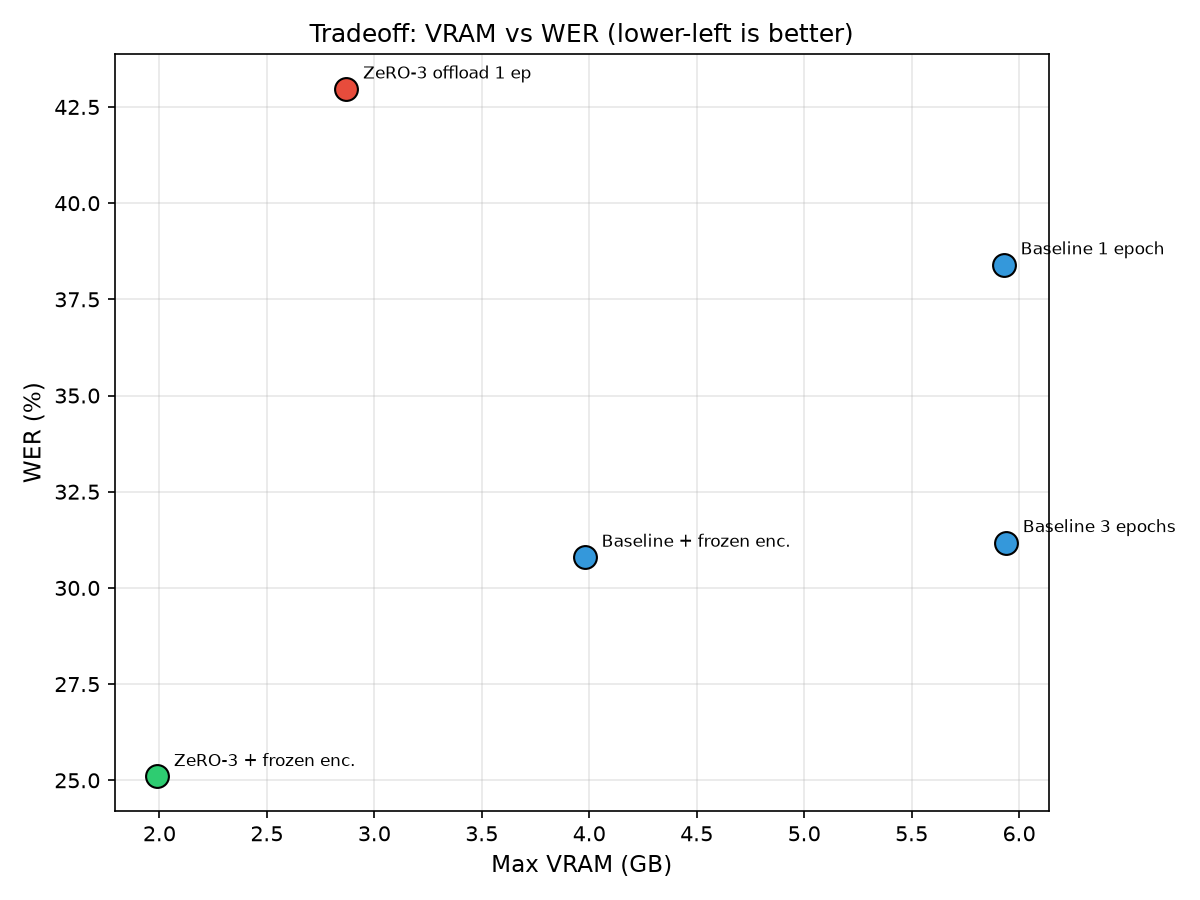
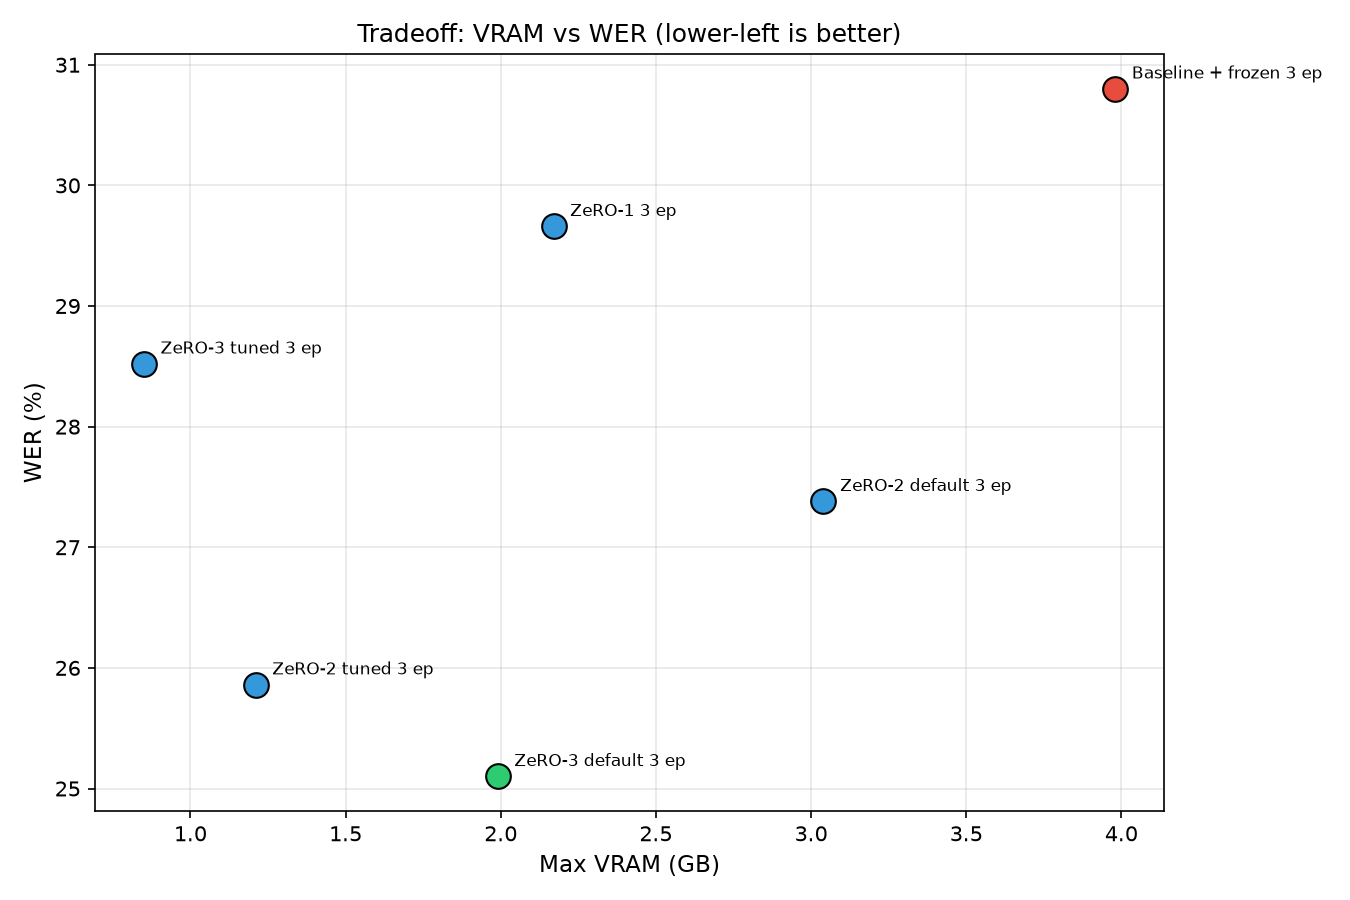
Remove empty columns from plots, keep only complete configs

diff --git a/scripts/make_plots.py b/scripts/make_plots.py
@@ -1,6 +1,5 @@
 """Строит графики сравнения конфигураций для README."""
 
-import os
 from pathlib import Path
 
 import matplotlib.pyplot as plt
@@ -9,81 +8,125 @@ import numpy as np
 OUT_DIR = Path("results/figures")
 OUT_DIR.mkdir(parents=True, exist_ok=True)
 
-# Данные из README
+
+# --- Данные из финального README ---
+# Только конфигурации с полными данными по всем метрикам.
+
 configs = [
-    "Pretrained\n(no FT)",
-    "Baseline\n1 epoch",
-    "Baseline\n3 epochs",
-    "Baseline +\nfrozen enc.",
-    "ZeRO-3\noffload 1 ep",
-    "ZeRO-3 +\nfrozen enc.",
+    "Baseline +\nfrozen 3 ep",
+    "ZeRO-1\n3 ep",
+    "ZeRO-2 default\n3 ep",
+    "ZeRO-2 tuned\n3 ep",
+    "ZeRO-3 default\n3 ep",
+    "ZeRO-3 tuned\n3 ep",
 ]
-vram = [None, 5.93, 5.94, 3.98, 2.87, 1.99]
-wer = [28.14, 38.40, 31.18, 30.80, 42.97, 25.10]
-time_s = [None, 19, 50, 32, 42, 94]
 
-# Цвета: лучший результат — зелёный, худший — красный
-def color_for_wer(w):
-    if w == min(wer):
-        return "#2ecc71"  # зелёный
-    if w == max(wer):
-        return "#e74c3c"  # красный
-    return "#3498db"      # синий
+vram =  [3.98, 2.17, 3.04, 1.21, 1.99, 0.85]
+ram =   [9.07, 12.32, 12.57, 12.60, 13.29, 13.30]
+time_s =[32, 41, 58, 50, 102, 86]
+wer =   [30.80, 29.66, 27.38, 25.86, 25.10, 28.52]
 
-def color_for_vram(v):
-    if v is None:
-        return "#95a5a6"
-    if v == min([x for x in vram if x is not None]):
+
+# --- Вспомогательные функции ---
+
+def color_for(value, values, best="min"):
+    """Зелёный для лучшего, красный для худшего, синий для остальных."""
+    target = min(values) if best == "min" else max(values)
+    worst = max(values) if best == "min" else min(values)
+    if value == target:
         return "#2ecc71"
+    if value == worst:
+        return "#e74c3c"
     return "#3498db"
 
 
-# График 1: WER по конфигурациям
-fig, ax = plt.subplots(figsize=(10, 5))
+def annotate_bars(ax, bars, values, fmt="{:.2f}", offset=0.02):
+    for bar, v in zip(bars, values):
+        ax.text(bar.get_x() + bar.get_width() / 2,
+                bar.get_height() + offset,
+                fmt.format(v), ha="center", va="bottom", fontsize=8)
+
+
+# ============================================================
+# График 1: WER
+# ============================================================
+
+fig, ax = plt.subplots(figsize=(11, 5))
 x = np.arange(len(configs))
-colors = [color_for_wer(w) for w in wer]
+colors = [color_for(w, wer, best="min") for w in wer]
 bars = ax.bar(x, wer, color=colors, edgecolor="black", linewidth=0.5)
 ax.axhline(y=28.14, color="gray", linestyle="--", linewidth=1,
            label="Pretrained (28.14%)")
 ax.set_xticks(x)
-ax.set_xticklabels(configs, fontsize=9)
+ax.set_xticklabels(configs, fontsize=8)
 ax.set_ylabel("WER (%)", fontsize=11)
 ax.set_title("Word Error Rate by configuration (lower is better)", fontsize=12)
 ax.legend()
-for bar, w in zip(bars, wer):
-    ax.text(bar.get_x() + bar.get_width() / 2, bar.get_height() + 0.5,
-            f"{w:.1f}%", ha="center", va="bottom", fontsize=9)
+annotate_bars(ax, bars, wer, fmt="{:.2f}%", offset=0.3)
 plt.tight_layout()
 plt.savefig(OUT_DIR / "wer_comparison.png", dpi=150)
 plt.close()
 
-# График 2: VRAM по конфигурациям
-fig, ax = plt.subplots(figsize=(10, 5))
-vram_vals = [v if v is not None else 0 for v in vram]
-colors = [color_for_vram(v) for v in vram]
-bars = ax.bar(x, vram_vals, color=colors, edgecolor="black", linewidth=0.5)
+
+# ============================================================
+# График 2: VRAM
+# ============================================================
+
+fig, ax = plt.subplots(figsize=(11, 5))
+colors = [color_for(v, vram, best="min") for v in vram]
+bars = ax.bar(x, vram, color=colors, edgecolor="black", linewidth=0.5)
 ax.set_xticks(x)
-ax.set_xticklabels(configs, fontsize=9)
+ax.set_xticklabels(configs, fontsize=8)
 ax.set_ylabel("Max VRAM (GB)", fontsize=11)
 ax.set_title("Peak VRAM by configuration (lower is better)", fontsize=12)
-for bar, v in zip(bars, vram):
-    if v is not None:
-        ax.text(bar.get_x() + bar.get_width() / 2, bar.get_height() + 0.05,
-                f"{v:.2f}", ha="center", va="bottom", fontsize=9)
-    else:
-        ax.text(bar.get_x() + bar.get_width() / 2, 0.1,
-                "n/a", ha="center", va="bottom", fontsize=9, color="gray")
+annotate_bars(ax, bars, vram, fmt="{:.2f}", offset=0.05)
 plt.tight_layout()
 plt.savefig(OUT_DIR / "vram_comparison.png", dpi=150)
 plt.close()
 
-# График 3: Tradeoff VRAM vs WER
-fig, ax = plt.subplots(figsize=(8, 6))
-for i, (v, w, c) in enumerate(zip(vram, wer, configs)):
-    if v is None:
-        continue
-    ax.scatter(v, w, s=120, color=color_for_wer(w), edgecolor="black", zorder=3)
-    ax.annotate(c.replace("\n", " "), (v, w),
+
+# ============================================================
+# График 3: CPU RAM
+# ============================================================
+
+fig, ax = plt.subplots(figsize=(11, 5))
+colors = [color_for(r, ram, best="min") for r in ram]
+bars = ax.bar(x, ram, color=colors, edgecolor="black", linewidth=0.5)
+ax.set_xticks(x)
+ax.set_xticklabels(configs, fontsize=8)
+ax.set_ylabel("Peak CPU RAM (GB)", fontsize=11)
+ax.set_title("Peak CPU RAM by configuration (lower is better)", fontsize=12)
+annotate_bars(ax, bars, ram, fmt="{:.2f}", offset=0.1)
+plt.tight_layout()
+plt.savefig(OUT_DIR / "ram_comparison.png", dpi=150)
+plt.close()
+
+
+# ============================================================
+# График 4: Время обучения
+# ============================================================
+
+fig, ax = plt.subplots(figsize=(11, 5))
+bars = ax.bar(x, time_s, color="#9b59b6", edgecolor="black", linewidth=0.5)
+ax.set_xticks(x)
+ax.set_xticklabels(configs, fontsize=8)
+ax.set_ylabel("Training time (s)", fontsize=11)
+ax.set_title("Training time by configuration (lower is better)", fontsize=12)
+annotate_bars(ax, bars, time_s, fmt="{:.0f}s", offset=1)
+plt.tight_layout()
+plt.savefig(OUT_DIR / "time_comparison.png", dpi=150)
+plt.close()
+
+
+# ============================================================
+# График 5: Tradeoff VRAM vs WER
+# ============================================================
+
+fig, ax = plt.subplots(figsize=(9, 6))
+for label, v, w in zip(configs, vram, wer):
+    color = color_for(w, wer, best="min")
+    ax.scatter(v, w, s=140, color=color, edgecolor="black", zorder=3)
+    ax.annotate(label.replace("\n", " "), (v, w),
                 textcoords="offset points", xytext=(8, 5), fontsize=8)
 ax.set_xlabel("Max VRAM (GB)", fontsize=11)
 ax.set_ylabel("WER (%)", fontsize=11)
@@ -93,23 +136,132 @@ plt.tight_layout()
 plt.savefig(OUT_DIR / "tradeoff.png", dpi=150)
 plt.close()
 
-# График 4: Время обучения
-fig, ax = plt.subplots(figsize=(10, 5))
-time_vals = [t if t is not None else 0 for t in time_s]
-bars = ax.bar(x, time_vals, color="#9b59b6", edgecolor="black", linewidth=0.5)
-ax.set_xticks(x)
-ax.set_xticklabels(configs, fontsize=9)
-ax.set_ylabel("Training time (s)", fontsize=11)
-ax.set_title("Training time by configuration (lower is better)", fontsize=12)
-for bar, t in zip(bars, time_s):
-    if t is not None:
-        ax.text(bar.get_x() + bar.get_width() / 2, bar.get_height() + 1,
-                f"{t}s", ha="center", va="bottom", fontsize=9)
-    else:
-        ax.text(bar.get_x() + bar.get_width() / 2, 1,
-                "n/a", ha="center", va="bottom", fontsize=9, color="gray")
+
+# ============================================================
+# График 6: Tradeoff VRAM vs CPU RAM
+# ============================================================
+
+fig, ax = plt.subplots(figsize=(9, 6))
+for label, v, r in zip(configs, vram, ram):
+    ax.scatter(v, r, s=140, color="#3498db", edgecolor="black", zorder=3)
+    ax.annotate(label.replace("\n", " "), (v, r),
+                textcoords="offset points", xytext=(8, 5), fontsize=8)
+ax.set_xlabel("Max VRAM (GB)", fontsize=11)
+ax.set_ylabel("Peak CPU RAM (GB)", fontsize=11)
+ax.set_title("Memory shift: VRAM vs CPU RAM (offload trades one for the other)",
+             fontsize=12)
+ax.grid(True, alpha=0.3)
 plt.tight_layout()
-plt.savefig(OUT_DIR / "time_comparison.png", dpi=150)
+plt.savefig(OUT_DIR / "tradeoff_memory.png", dpi=150)
 plt.close()
 
-print(f"Saved 4 plots to {OUT_DIR}")
+
+# ============================================================
+# График 7: ZeRO stage comparison (grouped bars)
+# ============================================================
+
+zero_labels = ["ZeRO-1", "ZeRO-2\ndefault", "ZeRO-2\ntuned",
+               "ZeRO-3\ndefault", "ZeRO-3\ntuned"]
+zero_vram = [2.17, 3.04, 1.21, 1.99, 0.85]
+zero_ram = [12.32, 12.57, 12.60, 13.29, 13.30]
+zero_time = [41, 58, 50, 102, 86]
+zero_wer = [29.66, 27.38, 25.86, 25.10, 28.52]
+
+fig, axes = plt.subplots(1, 4, figsize=(18, 5))
+x = np.arange(len(zero_labels))
+
+# VRAM
+axes[0].bar(x, zero_vram, color="#3498db", edgecolor="black", linewidth=0.5)
+axes[0].set_xticks(x)
+axes[0].set_xticklabels(zero_labels, fontsize=9)
+axes[0].set_ylabel("Max VRAM (GB)")
+axes[0].set_title("VRAM")
+for i, v in enumerate(zero_vram):
+    axes[0].text(i, v + 0.05, f"{v:.2f}", ha="center", fontsize=9)
+
+# CPU RAM
+axes[1].bar(x, zero_ram, color="#e67e22", edgecolor="black", linewidth=0.5)
+axes[1].set_xticks(x)
+axes[1].set_xticklabels(zero_labels, fontsize=9)
+axes[1].set_ylabel("Peak CPU RAM (GB)")
+axes[1].set_title("CPU RAM")
+for i, v in enumerate(zero_ram):
+    axes[1].text(i, v + 0.1, f"{v:.2f}", ha="center", fontsize=9)
+
+# Time
+axes[2].bar(x, zero_time, color="#9b59b6", edgecolor="black", linewidth=0.5)
+axes[2].set_xticks(x)
+axes[2].set_xticklabels(zero_labels, fontsize=9)
+axes[2].set_ylabel("Training time (s)")
+axes[2].set_title("Time")
+for i, v in enumerate(zero_time):
+    axes[2].text(i, v + 2, f"{v}s", ha="center", fontsize=9)
+
+# WER
+axes[3].bar(x, zero_wer, color="#2ecc71", edgecolor="black", linewidth=0.5)
+axes[3].set_xticks(x)
+axes[3].set_xticklabels(zero_labels, fontsize=9)
+axes[3].set_ylabel("WER (%)")
+axes[3].set_title("WER")
+axes[3].axhline(y=28.14, color="gray", linestyle="--", linewidth=1)
+for i, v in enumerate(zero_wer):
+    axes[3].text(i, v + 0.3, f"{v:.2f}%", ha="center", fontsize=9)
+
+plt.suptitle("ZeRO stage comparison (Whisper-small, 3 epochs)", fontsize=13)
+plt.tight_layout()
+plt.savefig(OUT_DIR / "zero_stages.png", dpi=150)
+plt.close()
+
+
+# ============================================================
+# График 8: Buffer tuning effect (ZeRO-2 vs ZeRO-3)
+# ============================================================
+
+fig, axes = plt.subplots(1, 2, figsize=(12, 5))
+width = 0.35
+
+# ZeRO-2: default vs tuned
+labels_2 = ["ZeRO-2\ndefault", "ZeRO-2\ntuned"]
+vram_2 = [3.04, 1.21]
+time_2 = [58, 50]
+x2 = np.arange(len(labels_2))
+
+ax1 = axes[0]
+ax1.bar(x2 - width/2, vram_2, width, label="VRAM (GB)",
+        color="#3498db", edgecolor="black", linewidth=0.5)
+ax1.bar(x2 + width/2, [t/10 for t in time_2], width, label="Time (s / 10)",
+        color="#9b59b6", edgecolor="black", linewidth=0.5)
+ax1.set_xticks(x2)
+ax1.set_xticklabels(labels_2)
+ax1.set_title("ZeRO-2: buffer tuning")
+ax1.legend()
+for i, (v, t) in enumerate(zip(vram_2, time_2)):
+    ax1.text(i - width/2, v + 0.05, f"{v:.2f}", ha="center", fontsize=9)
+    ax1.text(i + width/2, t/10 + 0.05, f"{t}s", ha="center", fontsize=9)
+
+# ZeRO-3: default vs tuned
+labels_3 = ["ZeRO-3\ndefault", "ZeRO-3\ntuned"]
+vram_3 = [1.99, 0.85]
+time_3 = [102, 86]
+x3 = np.arange(len(labels_3))
+
+ax2 = axes[1]
+ax2.bar(x3 - width/2, vram_3, width, label="VRAM (GB)",
+        color="#3498db", edgecolor="black", linewidth=0.5)
+ax2.bar(x3 + width/2, [t/10 for t in time_3], width, label="Time (s / 10)",
+        color="#9b59b6", edgecolor="black", linewidth=0.5)
+ax2.set_xticks(x3)
+ax2.set_xticklabels(labels_3)
+ax2.set_title("ZeRO-3: buffer tuning")
+ax2.legend()
+for i, (v, t) in enumerate(zip(vram_3, time_3)):
+    ax2.text(i - width/2, v + 0.05, f"{v:.2f}", ha="center", fontsize=9)
+    ax2.text(i + width/2, t/10 + 0.05, f"{t}s", ha="center", fontsize=9)
+
+plt.suptitle("Buffer tuning effect: VRAM vs Time", fontsize=13)
+plt.tight_layout()
+plt.savefig(OUT_DIR / "buffer_tuning.png", dpi=150)
+plt.close()
+
+
+print(f"Saved 8 plots to {OUT_DIR}")
